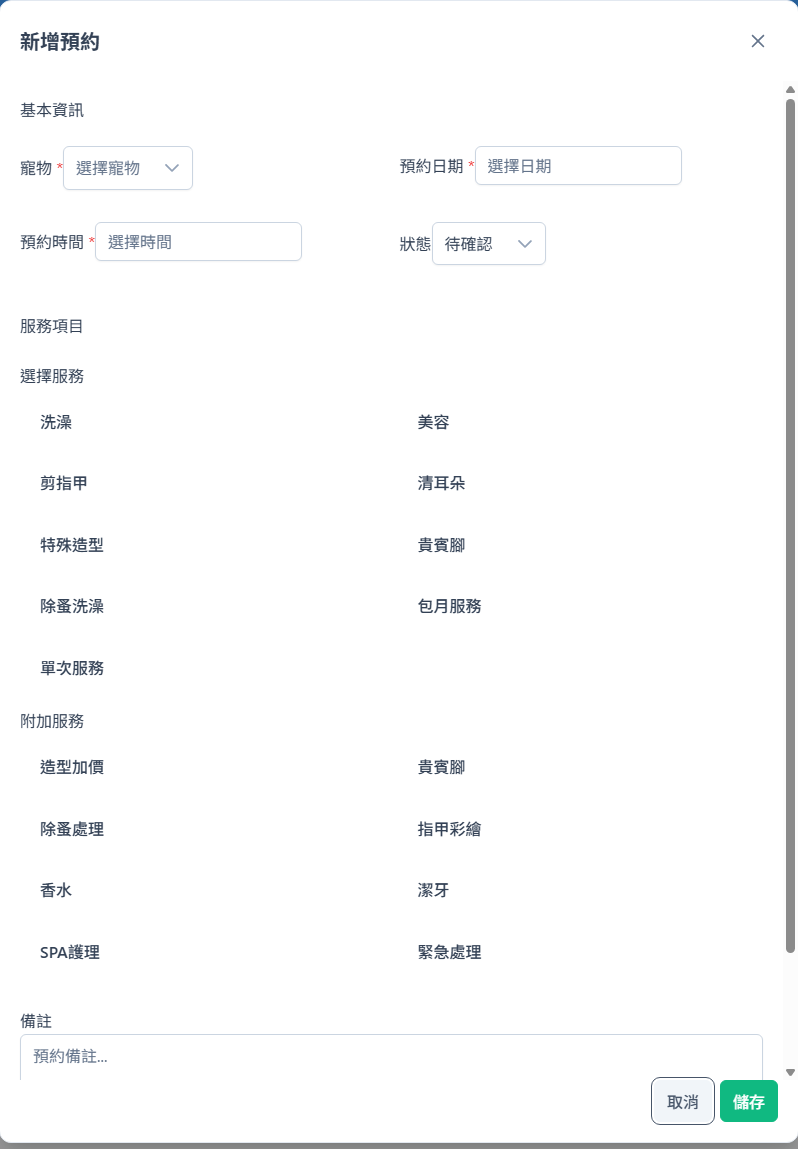
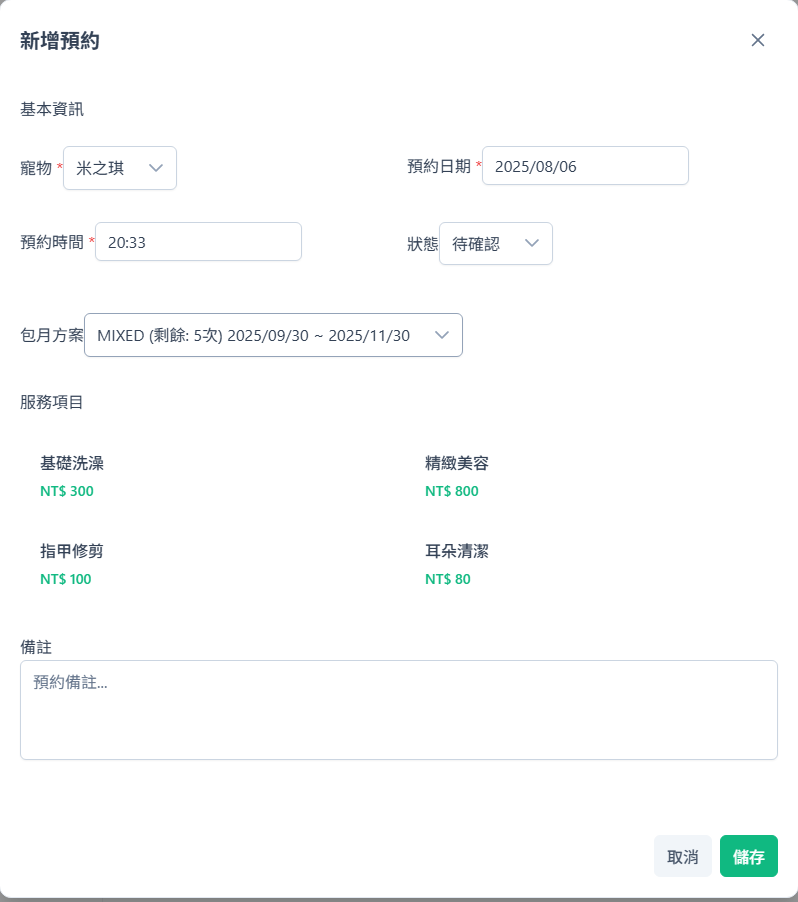
Issue: 預約表單服務金額編輯功能優化與checkbox顯示修正
Description:
- 修正服務選擇checkbox顯示問題，重構UI佈局確保checkbox正常可見與互動
- 將固定服務價格改為可編輯的InputNumber欄位，支援自訂金額調整
- 移除價格欄位disabled限制，所有服務金額皆可自由編輯
- 新增價格調整按鈕(+/-)，步進值50元，支援0-999,999價格範圍
- 實作即時成本計算與防抖機制，提升用戶編輯體驗
- 優化服務價格初始化邏輯，確保表單重置時正確恢復預設價格
- 改善價格輸入UI樣式，包含居中對齊、預設價格提示等

🤖 Generated with [Claude Code](https://claude.ai/code)

diff --git a/PetSalon.Frontend/src/components/forms/ReservationForm.vue b/PetSalon.Frontend/src/components/forms/ReservationForm.vue
@@ -104,26 +104,44 @@
               :key="service.serviceId"
               class="service-checkbox-item"
             >
-              <Checkbox
-                :id="`service-${service.serviceId}`"
-                v-model="form.serviceIds"
-                :value="service.serviceId"
-                @change="calculateCost"
-              />
-              <label
-                :for="`service-${service.serviceId}`"
-                class="service-label"
-              >
-                <div class="service-info">
+              <div class="checkbox-container">
+                <Checkbox
+                  :id="`service-${service.serviceId}`"
+                  v-model="form.serviceIds"
+                  :value="service.serviceId"
+                  @change="onServiceToggle(service.serviceId)"
+                />
+              </div>
+              <div class="service-content">
+                <label
+                  :for="`service-${service.serviceId}`"
+                  class="service-label"
+                >
                   <span class="service-name">{{ service.serviceName }}</span>
-                  <div class="price-info">
-                    <span v-if="service.price > 0" class="service-price">
-                      NT$ {{ service.price.toLocaleString() }}
-                    </span>
-                    <span v-else class="free-price">免費</span>
+                </label>
+                <div class="price-input-container">
+                  <div class="price-input-wrapper">
+                    <span class="price-currency">NT$</span>
+                    <InputNumber
+                      v-model="servicePrices[service.serviceId]"
+                      :min="0"
+                      :max="999999"
+                      mode="decimal"
+                      :use-grouping="false"
+                      placeholder="請輸入金額"
+                      class="price-input"
+                      @input="onPriceChange"
+                      @blur="calculateCost"
+                      show-buttons
+                      :button-layout="'horizontal'"
+                      :step="50"
+                    />
                   </div>
+                  <small v-if="service.price > 0" class="default-price-hint">
+                    預設: NT$ {{ service.price.toLocaleString() }}
+                  </small>
                 </div>
-              </label>
+              </div>
             </div>
           </div>
         </div>
@@ -307,6 +325,8 @@ const form = ref<ReservationForm>({
   memo: ''
 })
 
+const servicePrices = ref<Record<number, number>>({})
+
 const errors = ref<ValidationErrors>({})
 const submitting = ref(false)
 const loadingPets = ref(false)
@@ -364,6 +384,11 @@ const loadServices = async () => {
       description: service.description,
       estimatedDuration: service.estimatedDuration || 0
     }))
+    
+    // 初始化服務價格
+    services.value.forEach(service => {
+      servicePrices.value[service.serviceId] = service.price
+    })
   } catch (error) {
     console.error('載入服務項目失敗:', error)
     // 如果 API 失敗，嘗試使用 SystemCode 作為備用
@@ -376,6 +401,11 @@ const loadServices = async () => {
         price: 0,
         description: item.value
       })) || []
+      
+      // 初始化備用服務價格
+      services.value.forEach(service => {
+        servicePrices.value[service.serviceId] = service.price
+      })
     } catch (fallbackError) {
       console.error('備用載入也失敗:', fallbackError)
       toast.add({
@@ -456,6 +486,24 @@ const onSubscriptionSelect = () => {
   calculateCost()
 }
 
+const onServiceToggle = (serviceId: number) => {
+  const service = services.value.find(s => s.serviceId === serviceId)
+  if (service && form.value.serviceIds.includes(serviceId)) {
+    // 如果選中服務，設定預設價格
+    if (servicePrices.value[serviceId] === undefined || servicePrices.value[serviceId] === 0) {
+      servicePrices.value[serviceId] = service.price
+    }
+  }
+  calculateCost()
+}
+
+const onPriceChange = () => {
+  // 即時計算成本，提供更好的用戶體驗
+  setTimeout(() => {
+    calculateCost()
+  }, 300) // 防抖延遲300ms
+}
+
 const calculateCost = async () => {
   if (!form.value.petId || !form.value.serviceIds.length) {
     costCalculation.value = null
@@ -492,9 +540,12 @@ const calculateCost = async () => {
     console.log('Cost calculation result:', costCalculation.value)
   } catch (error) {
     console.error('計算費用失敗:', error)
-    // 如果 API 失敗，使用預設計算
+    // 如果 API 失敗，使用自訂價格計算
     const selectedServices = services.value.filter(s => form.value.serviceIds.includes(s.serviceId))
-    const serviceTotal = selectedServices.reduce((sum, service) => sum + (service.price || 0), 0)
+    const serviceTotal = selectedServices.reduce((sum, service) => {
+      const customPrice = servicePrices.value[service.serviceId]
+      return sum + (customPrice !== undefined ? customPrice : service.price || 0)
+    }, 0)
     
     const addonTotal = 0
     
@@ -601,9 +652,14 @@ watch(() => props.visible, (visible) => {
       reservationDate: null,
       reservationTime: null,
       serviceIds: [],
-          subscriptionId: null,
+      subscriptionId: null,
       status: 'PENDING',
       memo: ''
+    })
+    
+    // 重置服務價格為預設值
+    services.value.forEach(service => {
+      servicePrices.value[service.serviceId] = service.price
     })
   }
   errors.value = {}
@@ -699,13 +755,25 @@ onMounted(() => {
 .service-checkbox-item {
   display: flex;
   align-items: flex-start;
-  gap: 0.5rem;
-  padding: 0.75rem;
+  gap: 0.75rem;
+  padding: 1rem;
   border: 1px solid var(--p-surface-border);
   border-radius: var(--p-border-radius);
   background: var(--p-surface-0);
   transition: all 0.2s ease;
-  cursor: pointer;
+}
+
+.checkbox-container {
+  display: flex;
+  align-items: center;
+  margin-top: 0.25rem;
+}
+
+.service-content {
+  flex: 1;
+  display: flex;
+  flex-direction: column;
+  gap: 0.5rem;
 }
 
 .service-checkbox-item:hover {
@@ -719,27 +787,63 @@ onMounted(() => {
 }
 
 .service-label {
-  flex: 1;
   cursor: pointer;
   margin: 0;
-}
-
-.service-info {
-  display: flex;
-  flex-direction: column;
-  gap: 0.25rem;
 }
 
 .service-name {
   font-weight: 500;
   color: var(--p-text-color);
+  font-size: 0.95rem;
 }
 
-.price-info {
+.price-input-container {
   display: flex;
   flex-direction: column;
-  align-items: flex-start;
-  gap: 0.125rem;
+  gap: 0.25rem;
+}
+
+.price-input-wrapper {
+  display: flex;
+  align-items: center;
+  gap: 0.5rem;
+}
+
+.price-currency {
+  font-size: 0.875rem;
+  color: var(--p-text-color-secondary);
+  font-weight: 500;
+}
+
+.price-input {
+  width: 140px;
+  font-weight: 500;
+}
+
+.price-input :deep(.p-inputnumber-input) {
+  text-align: center;
+  font-weight: 500;
+}
+
+.price-input :deep(.p-inputnumber-button) {
+  width: 2rem;
+}
+
+.price-input :deep(.p-inputnumber-button-up),
+.price-input :deep(.p-inputnumber-button-down) {
+  background: var(--p-primary-50);
+  border-color: var(--p-primary-200);
+}
+
+.price-input :deep(.p-inputnumber-button-up):hover,
+.price-input :deep(.p-inputnumber-button-down):hover {
+  background: var(--p-primary-100);
+  border-color: var(--p-primary-300);
+}
+
+.default-price-hint {
+  color: var(--p-text-color-secondary);
+  font-size: 0.75rem;
 }
 
 .service-price {
